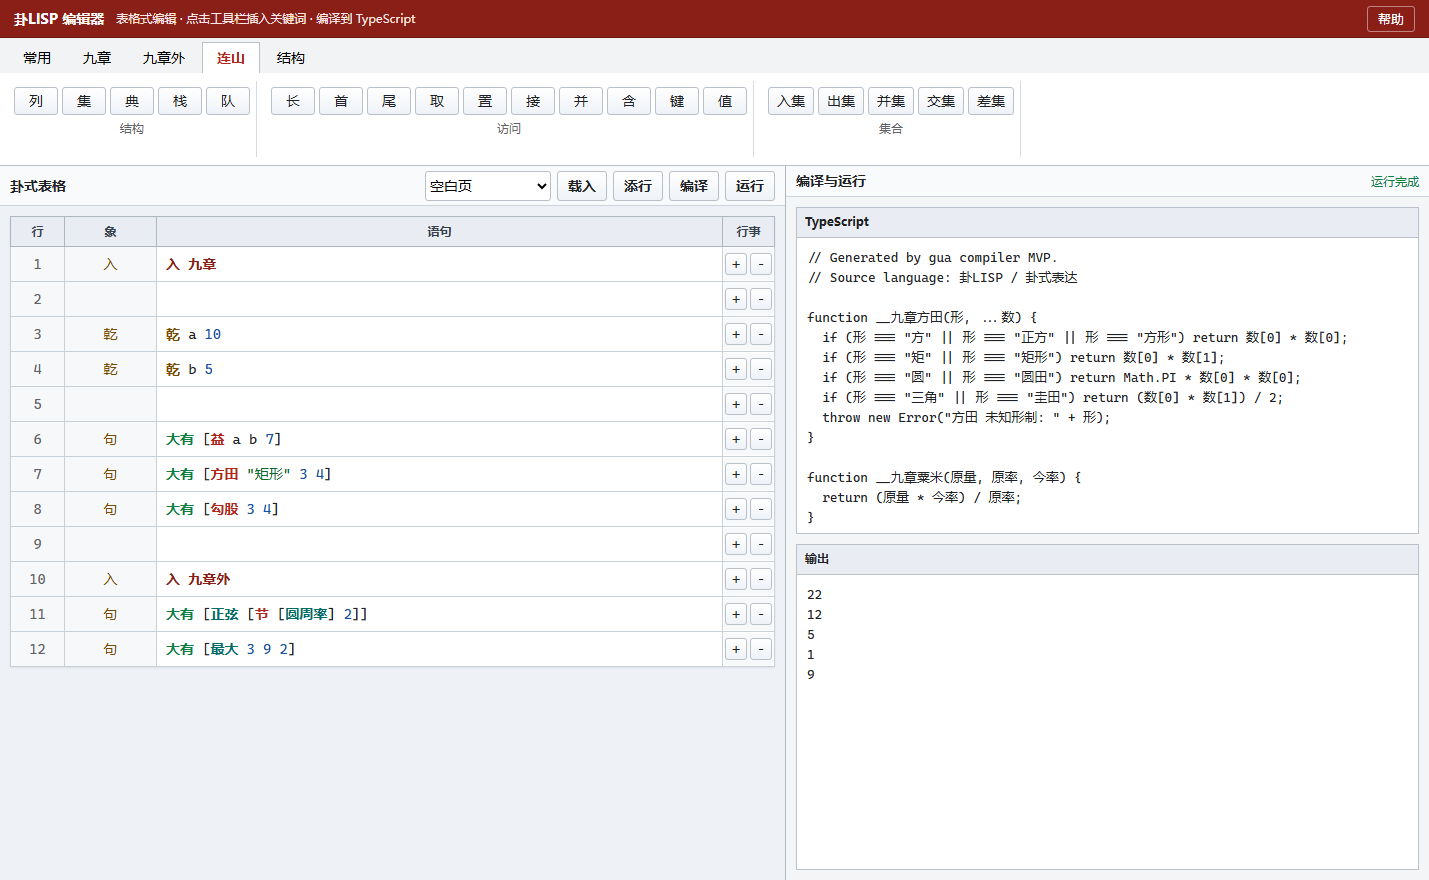
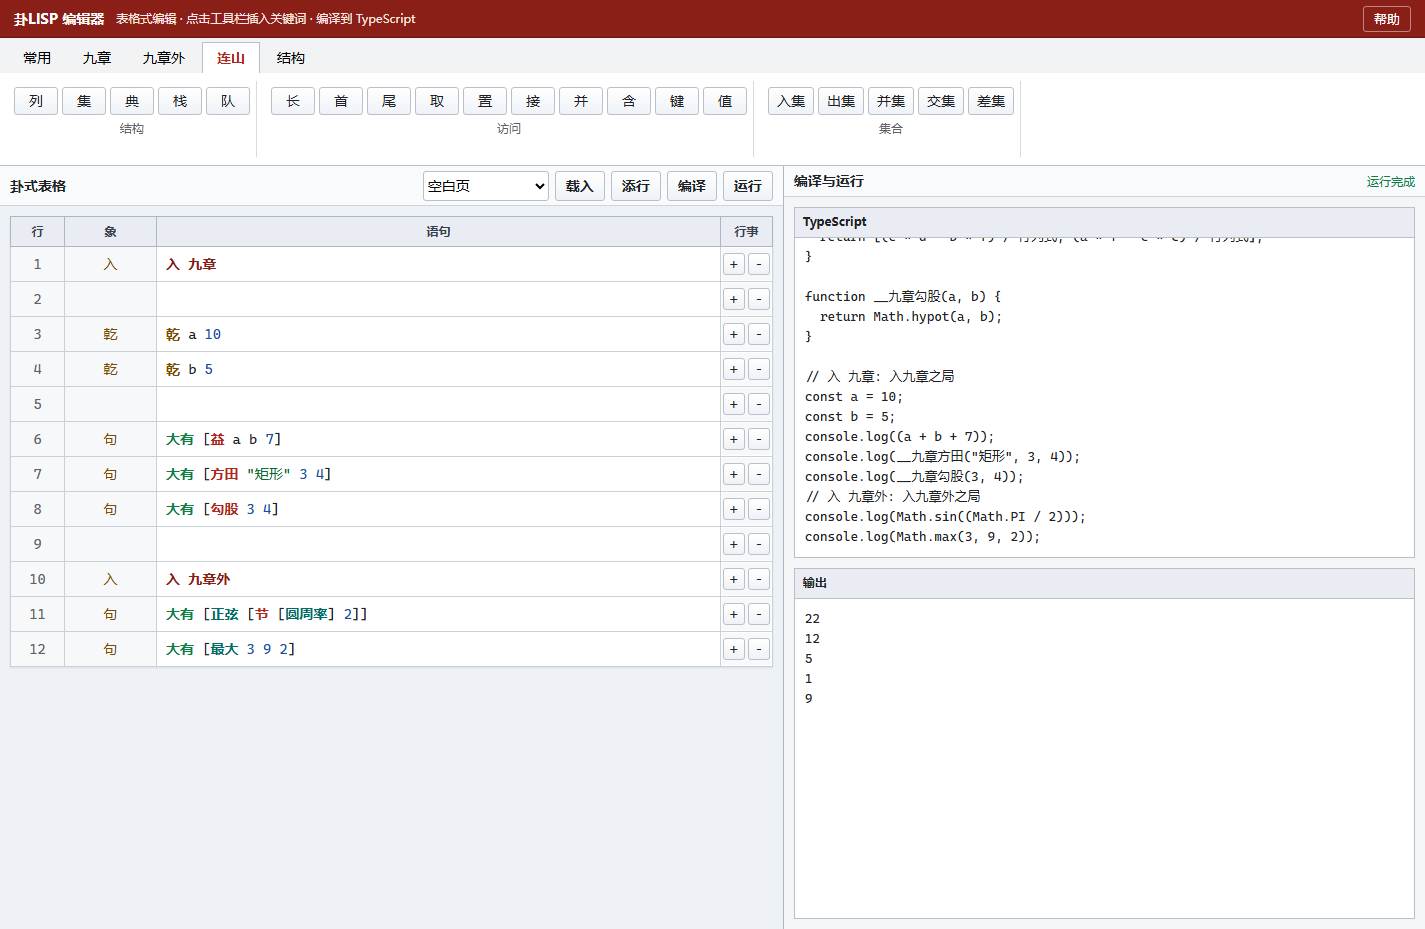
Replace README editor screenshot

diff --git a/src/app.ts b/src/app.ts
@@ -259,6 +259,7 @@ let rows = [""];
 let activeRow = 0;
 let activeTab: TabName = "常用";
 let shouldAutoRun = false;
+let tsScrollTarget = 0;
 
 function initFromUrl() {
   const params = new URLSearchParams(window.location.search);
@@ -267,6 +268,7 @@ function initFromUrl() {
   if (sample && sample in samples) rows = samples[sample].split("\n");
   if (tab && tab in ribbon) activeTab = tab;
   shouldAutoRun = params.get("run") === "1";
+  tsScrollTarget = Number(params.get("tsScroll") ?? 0);
 }
 
 const app = document.querySelector<HTMLDivElement>("#app");
@@ -534,6 +536,7 @@ async function runSource() {
   if (result.ok) {
     tsOut.textContent = result.ts ?? "";
     runOut.textContent = result.output ?? "";
+    if (tsScrollTarget > 0) tsOut.scrollTop = tsScrollTarget;
     setMessage("运行完成");
   } else {
     runOut.textContent = result.error ?? "运行失败";

diff --git a/public/app.js b/public/app.js
@@ -244,6 +244,7 @@ var rows = [""];
 var activeRow = 0;
 var activeTab = "常用";
 var shouldAutoRun = false;
+var tsScrollTarget = 0;
 function initFromUrl() {
   const params = new URLSearchParams(window.location.search);
   const sample = params.get("sample");
@@ -254,6 +255,7 @@ function initFromUrl() {
   if (tab && tab in ribbon)
     activeTab = tab;
   shouldAutoRun = params.get("run") === "1";
+  tsScrollTarget = Number(params.get("tsScroll") ?? 0);
 }
 var app = document.querySelector("#app");
 if (!app)
@@ -495,6 +497,8 @@ async function runSource() {
   if (result.ok) {
     tsOut.textContent = result.ts ?? "";
     runOut.textContent = result.output ?? "";
+    if (tsScrollTarget > 0)
+      tsOut.scrollTop = tsScrollTarget;
     setMessage("运行完成");
   } else {
     runOut.textContent = result.error ?? "运行失败";

diff --git a/README.md b/README.md
@@ -69,7 +69,7 @@ http://localhost:4173
 启动 Web 编辑器后，可用 Chrome headless 更新 README 截图：
 
 ```bash
-"C:\Program Files\Google\Chrome\Application\chrome.exe" --headless=new --disable-gpu --hide-scrollbars --window-size=1429,880 --virtual-time-budget=4000 --screenshot="docs\gualisp-editor.png" "http://localhost:4173/?sample=%E4%B9%9D%E7%AB%A0&tab=%E8%BF%9E%E5%B1%B1&run=1"
+"C:\Program Files\Google\Chrome\Application\chrome.exe" --headless=new --disable-gpu --hide-scrollbars --window-size=1425,929 --virtual-time-budget=4500 --screenshot="docs\gualisp-editor.png" "http://localhost:4173/?sample=%E4%B9%9D%E7%AB%A0&tab=%E8%BF%9E%E5%B1%B1&run=1&tsScroll=1050"
 ```
 
 详细设定见 [about.md](about.md)。
